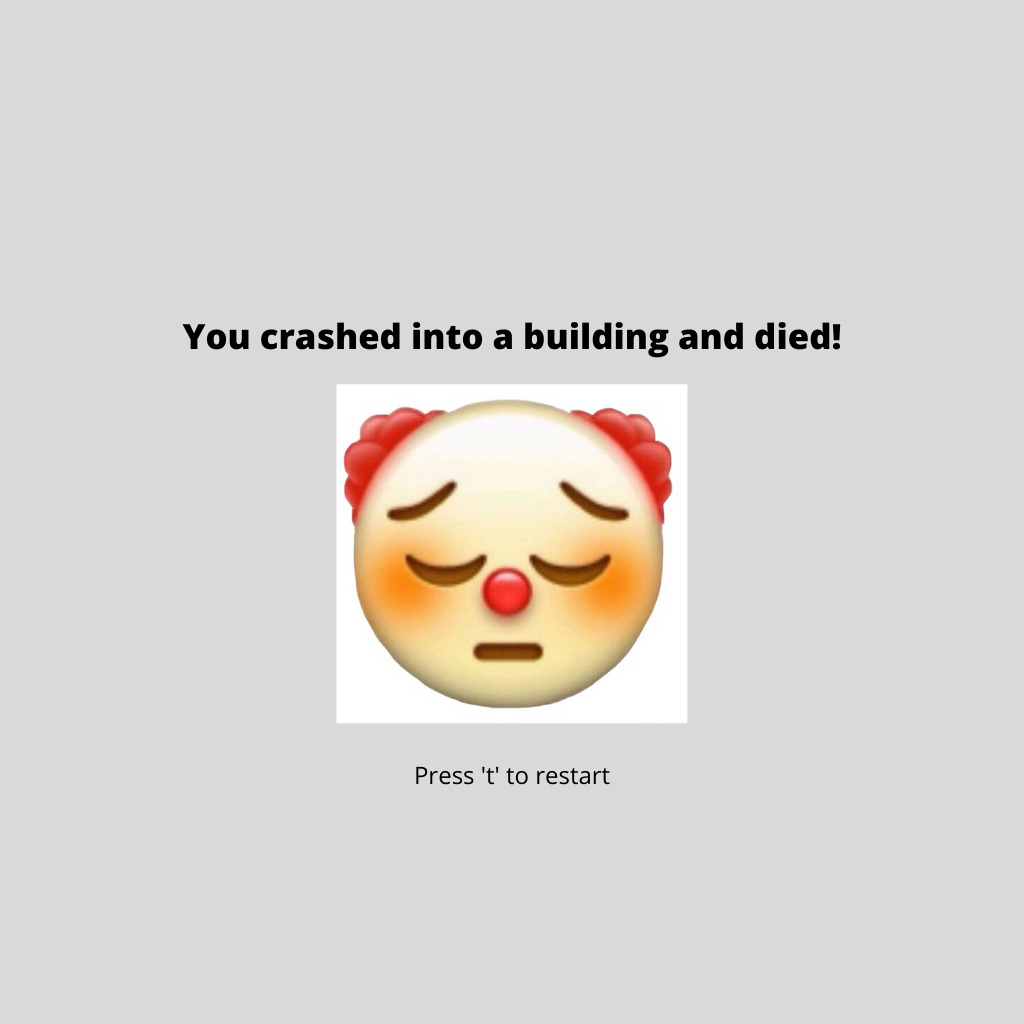
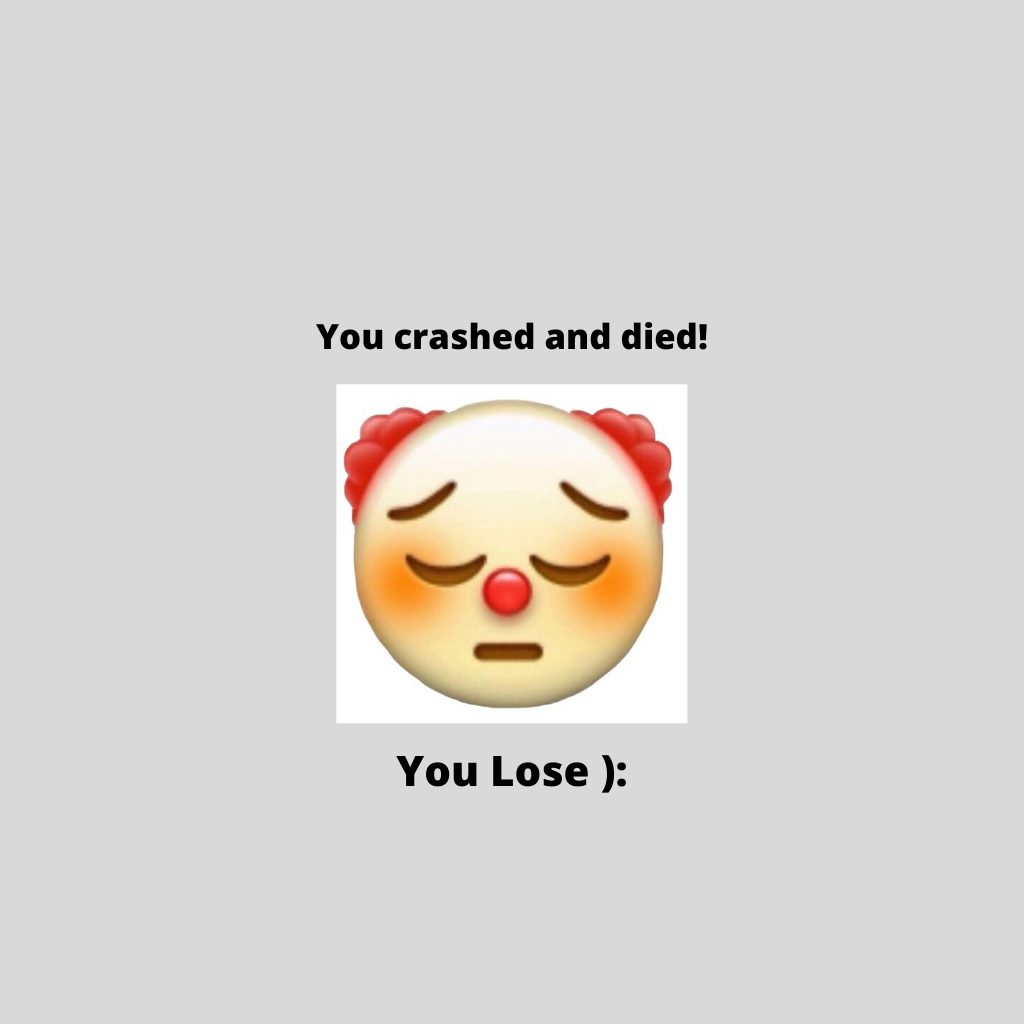
winner

Changed region(s): [[0.1562, 0.3125, 0.8438, 0.3438], [0.375, 0.7188, 0.625, 0.7812]]

diff --git a/group proj/main-scene.js b/group proj/main-scene.js
@@ -42,6 +42,7 @@ window.Final_Project = window.classes.Final_Project =
                     rubber: context.get_instance(Phong_Shader).material(Color.of(.1,.1,.1,1), {ambient: .9}),
                     menu: context.get_instance(Phong_Shader).material(Color.of(0,0,0,1), {ambient: 1, texture:context.get_instance("assets/menu.png", true)}),
                     gameover: context.get_instance(Phong_Shader).material(Color.of(0,0,0,1), {ambient: 1, texture:context.get_instance("assets/gameover.png", true)}),
+                    win: context.get_instance(Phong_Shader).material(Color.of(0,0,0,1), {ambient: 1, texture:context.get_instance("assets/win.png", true)}),
                 };
 
             this.lights = [new Light(Vec.of(5, -10, 5, 1), Color.of(0, 1, 1, 1), 1000)];
@@ -86,8 +87,8 @@ window.Final_Project = window.classes.Final_Project =
             this.key_triggered_button("Turn left", ["j"], () => this.turn_left = true, undefined, () => this.turn_left = false);
             this.key_triggered_button("Turn right", ["l"], () => this.turn_right = true, undefined, () => this.turn_right = false);
             this.new_line();
-            this.key_triggered_button("Restart", ["t"], () => this.restart = () => true);
-            this.key_triggered_button("Pause", ["y"], () => this.pause = () => !this.pause);
+            // this.key_triggered_button("Restart", ["t"], () => this.restart = () => true);
+            // this.key_triggered_button("Pause", ["y"], () => this.pause = () => !this.pause);
             this.key_triggered_button("Start Game", ["b"], () => this.playing = () => true);
 
         }
@@ -107,13 +108,24 @@ window.Final_Project = window.classes.Final_Project =
             }
             else if (this.hit_building(this.cop_x, this.cop_z))
             {
-                graphics_state.camera_transform = Mat4.look_at(Vec.of(2007, 2008, 2978), Vec.of(2007, 2008, 2990), Vec.of(0, 1, 0));
+                graphics_state.camera_transform = Mat4.look_at(Vec.of(1007, 1008, 978), Vec.of(1007, 1008, 990), Vec.of(0, 1, 0));
                 var menu_transform = Mat4.identity()
-                                                    .times(Mat4.translation([1999,2000,2990]))
+                                                    .times(Mat4.translation([999,1000,990]))
                                                     .times(Mat4.rotation(Math.PI, Vec.of(0,0,1)))
                                                     .times(Mat4.rotation(Math.PI/2, Vec.of(1,0,0)))
                                                     .times(Mat4.scale([32,1,32]))
                 this.shapes.square.draw(graphics_state, menu_transform, this.materials.gameover);
+                return;
+            }
+            else if (this.check_win()) {
+                graphics_state.camera_transform = Mat4.look_at(Vec.of(1007, 1008, 978), Vec.of(1007, 1008, 990), Vec.of(0, 1, 0));
+                var menu_transform = Mat4.identity()
+                                                    .times(Mat4.translation([999,1000,990]))
+                                                    .times(Mat4.rotation(Math.PI, Vec.of(0,0,1)))
+                                                    .times(Mat4.rotation(Math.PI/2, Vec.of(1,0,0)))
+                                                    .times(Mat4.scale([32,1,32]));
+                this.shapes.square.draw(graphics_state, menu_transform, this.materials.win);
+                return;
             }
             else { 
                 graphics_state.camera_transform = this.cop_cam.map((x,i) => Vec.from(graphics_state.camera_transform[i]).mix(x,.5));
@@ -162,7 +174,7 @@ window.Final_Project = window.classes.Final_Project =
 
             let human_transform = Mat4.identity();
 
-            if(!this.pause &&  Math.floor(t)%2 == 0 && this.ready == false)
+            if(/*!this.pause &&  */Math.floor(t)%2 == 0 && this.ready == false)
             {
 
                 let new_transform = [[0,0],[0,0],[0,0],[0,0],[0,0],[0,0],[0,0],[0,0],[0,0],[0,0]];;
@@ -252,13 +264,14 @@ window.Final_Project = window.classes.Final_Project =
             }
 
 
-            if(this.restart)
-            {
-                this.human_pos = [[-3,37],[-4,18],[-26,-30],[23,27],[16,-36],[3,-37],[4,-18],[39,15],[-43,-10],[-16,36]];
-                this.aliveHumans = [true, true, true, true, true,true, true, true, true, true];
-                this.score = 0;
-                this.restart = false;
-            }
+            // if(this.restart)
+            // {
+            //     this.human_pos = [[-3,37],[-4,18],[-26,-30],[23,27],[16,-36],[3,-37],[4,-18],[39,15],[-43,-10],[-16,36]];
+            //     this.aliveHumans = [true, true, true, true, true,true, true, true, true, true];
+            //     this.score = 0;
+            //     this.restart = false;
+                
+            // }
         }
 
         drawCopCar(graphics_state, initial_position, v) {
@@ -413,6 +426,14 @@ window.Final_Project = window.classes.Final_Project =
                 return true;
             }
             return false;
+        }
+
+        check_win() {
+            for (var i = 0; i < this.aliveHumans.length; i++) {
+                if (this.aliveHumans[i] == true)
+                    return false;
+            }
+            return true;
         }
     };
 
